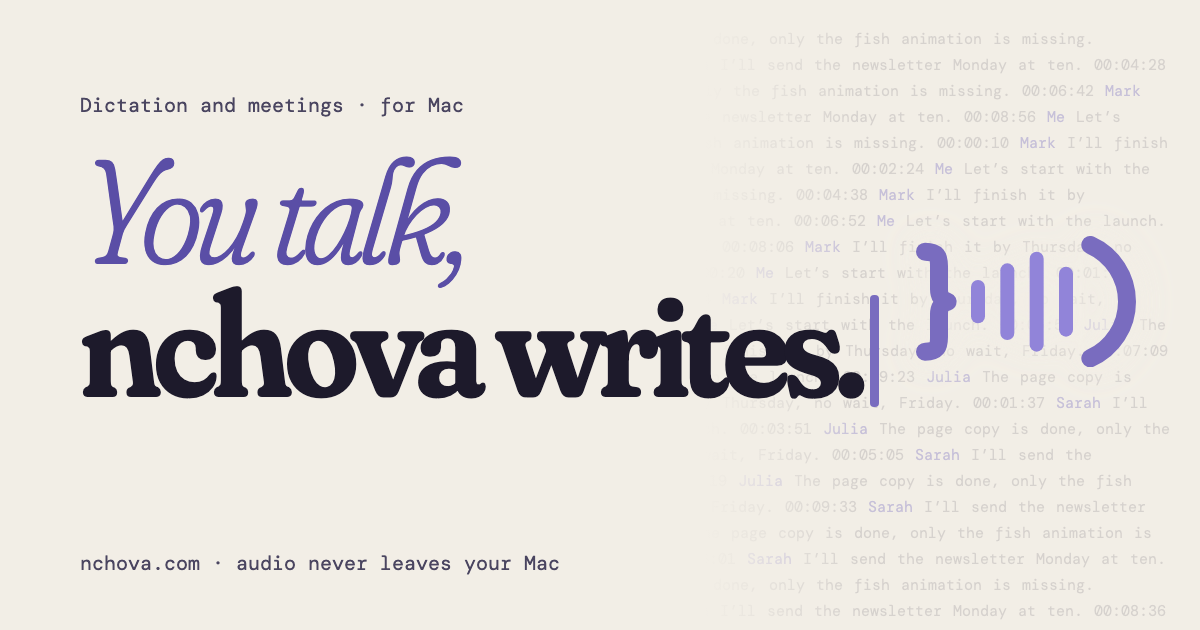
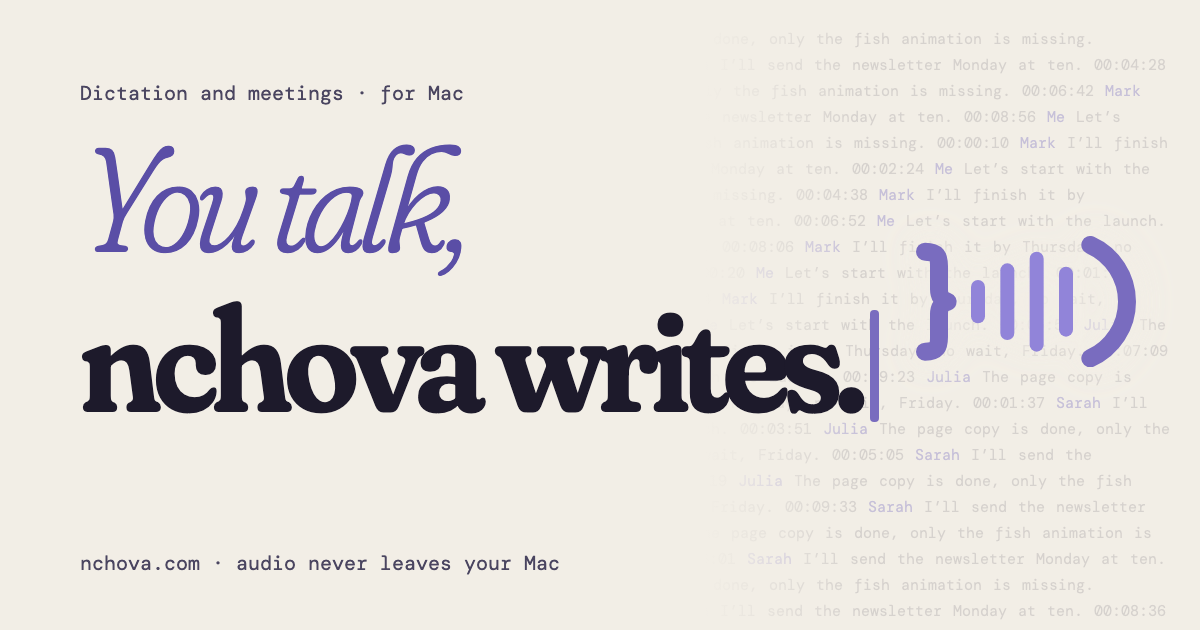
Più aria fra «Tu parli,» e «nchova scrive.»: la p non tocca più la h.
Le discendenti della riga detta e le ascendenti di quella scritta avevano meno di zero spazio:
ora ne hanno 0,09 em (14 px al corpo pieno). Un filo di interlinea in più anche negli altri titoli
grandi su più righe, e la stessa correzione nell'anteprima dei link.

diff --git a/tools/og.html b/tools/og.html
@@ -12,11 +12,11 @@
   .field { position: absolute; inset: 0; padding: 26px 30px; font: 400 15px/26px M; color: rgba(29,26,43,.13); word-spacing: 2px; }
   .field b { color: rgba(121,108,191,.35); font-weight: 400; }
   .clear { position: absolute; left: 0; top: 0; bottom: 0; width: 860px; background: linear-gradient(90deg, #f2eee6 82%, rgba(242,238,230,0)); }
-  .in { position: absolute; left: 80px; top: 92px; }
+  .in { position: absolute; left: 80px; top: 80px; }
   .kicker { font: 400 20px M; color: #4a4560; }
   h1 { margin: 26px 0 0; font-size: 148px; line-height: .9; letter-spacing: -.04em; font-weight: 400; }
   .s { display: block; font-style: italic; font-weight: 300; color: #5a4ea6; font-variation-settings: 'SOFT' 100, 'WONK' 1; }
-  .w { display: block; font-weight: 640; letter-spacing: -.05em; }
+  .w { display: block; margin-top: .18em; font-weight: 640; letter-spacing: -.05em; }
   .w i { display: inline-block; width: 9px; height: 112px; margin-left: 8px; background: #796cbf; border-radius: 4px; vertical-align: -10px; }
   .foot { position: absolute; left: 80px; bottom: 54px; font: 400 20px M; color: #4a4560; }
   .mark { position: absolute; right: 64px; top: 236px; width: 220px; filter: drop-shadow(0 0 18px #f2eee6) drop-shadow(0 0 10px #f2eee6); }

diff --git a/src/styles/sections.css b/src/styles/sections.css
@@ -159,6 +159,7 @@
 }
 
 .hero__written {
+  margin-top: 0.18em;
   font-weight: 640;
   font-variation-settings: 'SOFT' 100, 'WONK' 0, 'opsz' 144;
   letter-spacing: -0.045em;
@@ -364,7 +365,7 @@
   margin: 0;
   font-size: clamp(2.5rem, 6.2vw, 5.4rem);
   font-weight: 430;
-  line-height: 0.98;
+  line-height: 1.04;
   letter-spacing: -0.03em;
   font-variation-settings: 'SOFT' 100, 'WONK' 0, 'opsz' 144;
 }
@@ -632,7 +633,7 @@
   margin: 18px 0 20px;
   font-size: clamp(2.6rem, 7vw, 6.2rem);
   font-weight: 420;
-  line-height: 0.96;
+  line-height: 1.04;
   letter-spacing: -0.03em;
 }
 
@@ -1174,7 +1175,7 @@
   margin: 0 auto;
   font-size: clamp(3.4rem, 11vw, 9.4rem);
   font-weight: 430;
-  line-height: 0.92;
+  line-height: 1;
   letter-spacing: -0.04em;
   font-variation-settings: 'SOFT' 100, 'WONK' 0, 'opsz' 144;
 }
